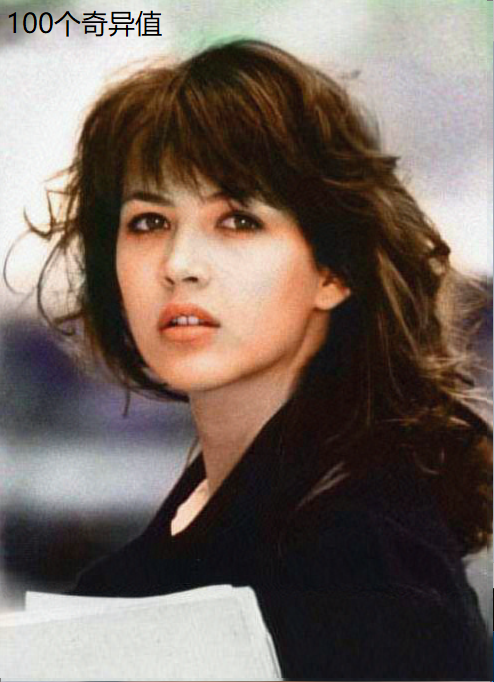
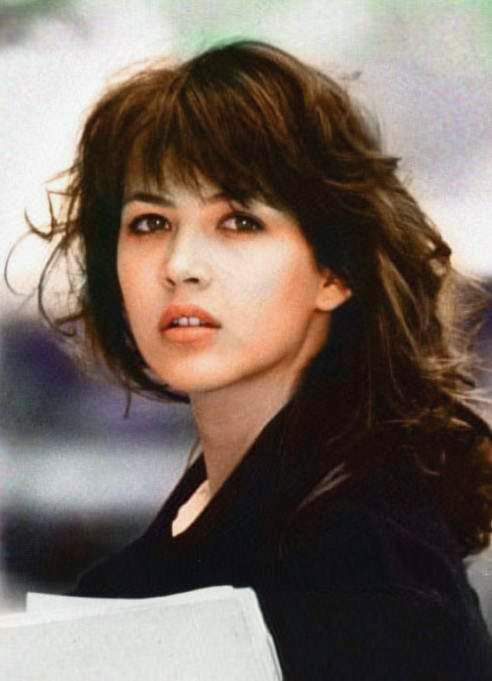
update README.md

diff --git a/svd.py b/svd.py
@@ -1,7 +1,7 @@
 import cv2
 import numpy as np
 
-num_sv = 50
+num_sv = 100
 
 
 def reconstruct(img):
@@ -39,5 +39,6 @@ if __name__ == '__main__':
 
     cv2.imshow('old', image)
     cv2.imshow('svd', vis)
+    cv2.imwrite('image/sv-{}.png'.format(num_sv), vis)
     cv2.waitKey(0)
     cv2.destroyAllWindows()

diff --git a/README.md b/README.md
@@ -1,1 +1,22 @@
-原图：
+# 奇异值分解实现图片压缩
+
+### 压缩比：
+图片尺寸：492x681, 采用100个奇异值，需存储：(492+681+1)x100=117400, 占用空间是压缩前的35%。
+
+### 原图：
+ ![image](https://github.com/foamliu/Singular-Value-Decomposition/raw/master/image/sophie_marceau.jpg)
+
+### 1个奇异值：
+![image](https://github.com/foamliu/Singular-Value-Decomposition/raw/master/image/sv-1.png)
+
+### 5个奇异值：
+![image](https://github.com/foamliu/Singular-Value-Decomposition/raw/master/image/sv-5.png)
+
+### 20个奇异值：
+![image](https://github.com/foamliu/Singular-Value-Decomposition/raw/master/image/sv-20.png)
+
+### 50个奇异值：
+![image](https://github.com/foamliu/Singular-Value-Decomposition/raw/master/image/sv-50.png)
+
+### 100个奇异值：
+![image](https://github.com/foamliu/Singular-Value-Decomposition/raw/master/image/sv-100.png)
